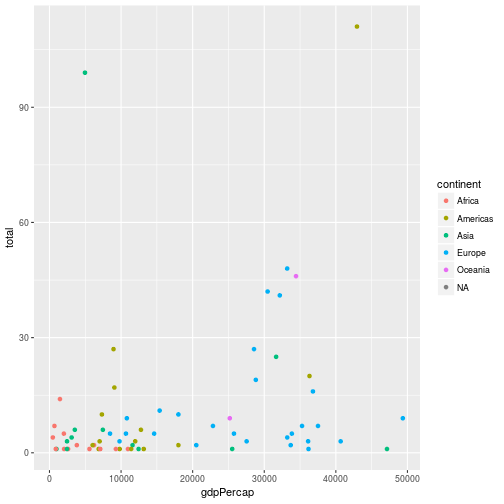
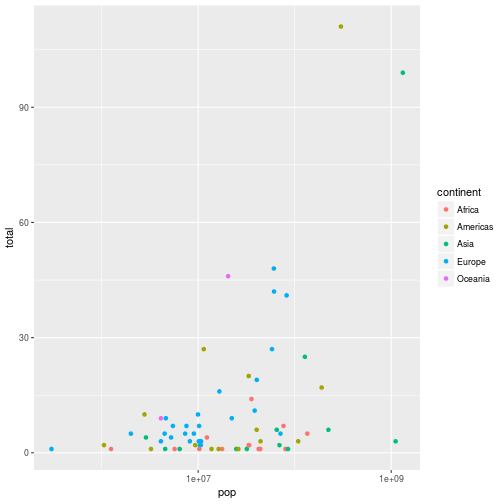
Finish first attempt at lesson on joins

diff --git a/_episodes/13-joins.md b/_episodes/13-joins.md
@@ -10,6 +10,8 @@ objectives:
 - "To have an appreciation of some of the difficulties that can occur when using real-life data"
 keypoints:
 - "Use join_{left,inner,right} to join data on common values"
+- "Take care when joining data that you aren't performing 1 to many or 1 to none joins when you think you're joining 1:1"
+- "If you need to clean your data to perform a join, you should do so programatically"
 source: Rmd
 ---
 
@@ -517,13 +519,14 @@ gapmedals <- gap2007 %>% left_join(medals, by = "country") %>%
 > {: .solution}
 {: .challenge}
 
-We saw in the challenge that matching on strings can be unreliable; some country names were recorded differently in the two tables, preventing a match from being made.   Although it is beyond the scope of this course, there are several approaches we can use in this (not uncommon) situation:
+We saw in the challenge that matching on strings can be unreliable; some country names were recorded differently in the two tables, preventing a match from being made.   Although it is beyond the scope of this course, there are several approaches we can use in this (not uncommon) situation, which are described below.  One thing you **shouldn't** do is manually alter either of the source data files so that the countries match.  Such an approach makes it impossible to reproduce your work, and would need to be repeated if either data-set were updated.  Better approaches include:
 
 1. Go back to the person or organisation who provided you with the data, and ask for, e.g. standardised 3 character country codes to be provided with the data.  This often isn't possible, but it is the cleanest solution.
 2. If the cause for the mis-matches is something that's consistent for all the values (e.g. a variable is recorded in upper case in one table and lower case in another, we can use `mutate` to create a new variable with the data in the correct format: `mutate(uppercountry=toupper(country))` will convert the values of `country` to upper-case).  
 3. Construct a look-up table to map between the different ways of recording the data, and use this as an intermediate table when performing the join.   You should ideally construct the mapping table programatically so your research is reproducible; at the very least the mapping table should be included with your data, and you should include code in your analysis script to check that all the values have been accounted for.  For example, if we obtained newer gapminder data, an decided to reproduce the analysis for the 2012 olympics we would want to be sure that we'd not ignored any countries who had won a medal in 2012, but not in 2008.
 
-
+FIXME This feels like it's going down a rabbit hole - simplify example data outwith lesson before getting to this
+ point.  The code chunk introduces *far* to many new concepts - tribble, if, anti joins
 
 ~~~
 # Deal with the countries that match anyway first:
@@ -538,27 +541,46 @@ manualcountry <- tribble(~gapcountry, ~medalcountry,
                          "etc.", "etc.")
 countrymap <- bind_rows(countrymap, manualcountry)
 
+
+# We can use an anti_join() to see which countries remain unaccounted for
+gapnomedal <- gap2007 %>% anti_join(countrymap, by = c("country" = "gapcountry"))
+medalnogap <- medals %>% anti_join(countrymap, by = c("country" = "medalcountry"))
+
+# Check the number of unaccuonted for countries is what we'd expect
+
+if (nrow(gapnomedal) != 75 || nrow(medalnogap) != 21) {
+  warning("Some countries unaccounted for")
+}
+~~~
+{: .r}
+
+
+
+~~~
+Warning: Some countries unaccounted for
+~~~
+{: .error}
+
+
+
+~~~
+# We use an inner join here since *all* countries should be accounted for
 medaljoin2 <- gap2007 %>% 
-  full_join(countrymap, by = c("country" = "gapcountry")) %>% 
-  full_join(medals, by = c("medalcountry" = "country")) %>% 
+  inner_join(countrymap, by = c("country" = "gapcountry")) %>% 
+  inner_join(medals, by = c("medalcountry" = "country")) %>% 
   select(-medalcountry)
 ~~~
 {: .r}
 
+Having cleaned and joined our data we could use, e.g. `ggplot2` to explore the relationship between, say, population and medal total:
+
 
 
 ~~~
-medaljoin2 %>% ggplot(aes(x = gdpPercap, y = total, colour = continent)) + 
-  geom_point()
+medaljoin2 %>% ggplot(aes(x = pop, y = total, colour = continent)) + 
+  geom_point() + scale_x_log10()
 ~~~
 {: .r}
-
-
-
-~~~
-Warning: Removed 96 rows containing missing values (geom_point).
-~~~
-{: .error}
 
 <img src="../fig/rmd-13-unnamed-chunk-21-1.png" title="plot of chunk unnamed-chunk-21" alt="plot of chunk unnamed-chunk-21" style="display: block; margin: auto;" />
 
